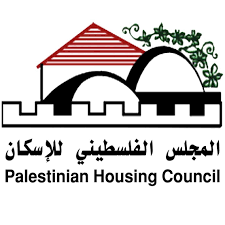
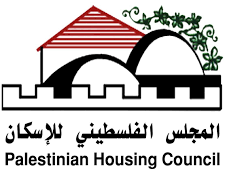
feat: crop image

diff --git a/src/components/register/partners.tsx b/src/components/register/partners.tsx
@@ -8,11 +8,11 @@ type LogoItem = {
 };
 
 const logos: LogoItem[] = [
-  { src: '/assets/partner-1.png', alt: 'Logo 1', cover: false },
-  { src: '/assets/partner-2.png', alt: 'Logo 2', cover: false },
-  { src: '/assets/partner-3.png', alt: 'Logo 3', cover: true },
-  { src: '/assets/partner-4.png', alt: 'Logo 4', cover: false },
-  { src: '/assets/partner-5.jpg', alt: 'Logo 5', cover: true }
+  { src: '/assets/partner-1.png', alt: 'Logo 1' },
+  { src: '/assets/partner-2.png', alt: 'Logo 2' },
+  { src: '/assets/partner-3.png', alt: 'Logo 3' },
+  { src: '/assets/partner-4.png', alt: 'Logo 4' },
+  { src: '/assets/partner-5.jpg', alt: 'Logo 5' }
 ];
 
 export default function TopPartners() {
@@ -30,7 +30,7 @@ export default function TopPartners() {
                 src={item.src}
                 alt={item.alt}
                 fill
-                className={cn(item.cover ? 'object-cover' : 'object-contain', logos.length % 2 === 0 && idx === logos.length && 'justify-self-start')}
+                className={cn('object-contain', logos.length % 2 === 0 && idx === logos.length && 'justify-self-start')}
                 sizes='(max-width: 768px) 100px, 140px'
                 priority={idx < 3}
               />
